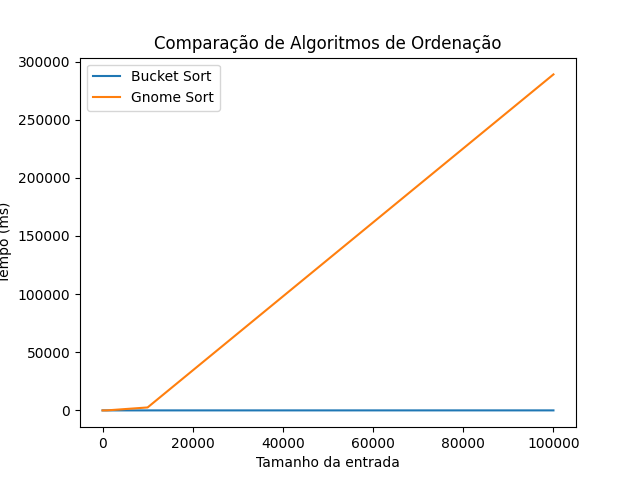
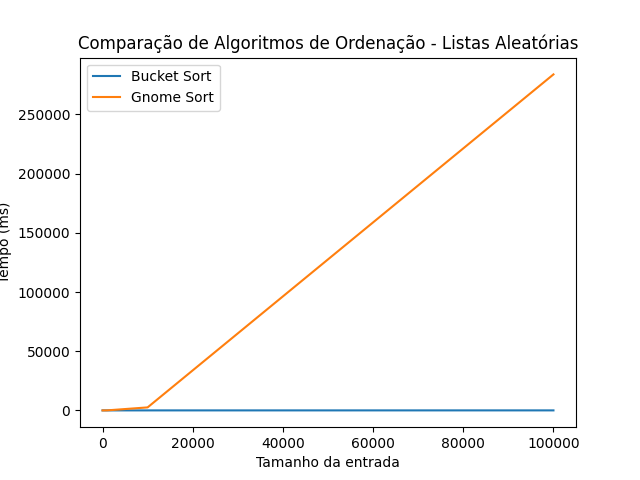
feat: new images for readme

diff --git a/src/main.py b/src/main.py
@@ -125,19 +125,22 @@ def run_comparative_analysis():
     save_multiple_plots(
         sizes,
         all_times_sorted,
-        "results/sorted_comparison.png"
+        "results/sorted_comparison.png",
+        "Comparação de Algoritmos de Ordenação - Listas Ordenadas"
     )
 
     save_multiple_plots(
         sizes,
         all_times_unsorted,
-        "results/unsorted_comparison.png"
+        "results/unsorted_comparison.png",
+        "Comparação de Algoritmos de Ordenação - Listas Desordenadas"
     )
 
     save_multiple_plots(
         sizes,
         all_times_random,
-        "results/random_comparison.png"
+        "results/random_comparison.png",
+        "Comparação de Algoritmos de Ordenação - Listas Aleatórias"
     )
 
     with open("results/sorted_times.json", "w") as f:

diff --git a/src/utils/plots.py b/src/utils/plots.py
@@ -71,7 +71,8 @@ def plot_multiple_sorting_times(
 def save_multiple_plots(
     sizes: list[int],
     all_times: dict[str, list[float]],
-    filename: str
+    filename: str,
+    title: str
 ):
     """
     Salva o gráfico comparativo de tempos de execução para múltiplos
@@ -87,7 +88,7 @@ def save_multiple_plots(
         plt.plot(sizes, times, label=algorithm_name)
     plt.xlabel("Tamanho da entrada")
     plt.ylabel("Tempo (ms)")
-    plt.title("Comparação de Algoritmos de Ordenação")
+    plt.title(title)
     plt.legend()
     plt.savefig(filename)
     plt.close()

diff --git a/README.md b/README.md
@@ -13,7 +13,11 @@ Este trabalho apresenta o estudo dos algoritmos de ordenação Bucket Sort e Gno
 
 O Bucket Sort é um algoritmo de ordenação criado para lidar de forma eficiente com listas de dados que possuem valores distribuídos de maneira relativamente uniforme. Ele foi proposto por Harold H. Seward em 1957, inicialmente para uso em computadores da IBM, e é considerado uma variação dos algoritmos de ordenação por distribuição.
 
-O propósito do Bucket Sort é dividir os elementos em grupos (baldes) de acordo com seus valores, facilitando a ordenação interna de cada grupo e acelerando o processo de ordenação total. Ao invés de comparar cada elemento com todos os outros, como em algoritmos tradicionais, o Bucket Sort aproveita a distribuição dos dados para reduzir o número de comparações necessárias.
+O propósito do Bucket Sort é dividir os elementos em grupos (baldes) de acordo com seus valores, facilitando a ordenação interna de cada grupo e acelerando o processo de ordenação total. Ao invés de comparar cada elemento com todos os outros, como em algoritmos tradicionais, o Bucket Sort aproveita a distribuição dos dados para reduzir o número de comparações necessárias. A Figura 1 apresenta uma visualização desse procedimento
+
+![Estrutura do Bucket Sort](./images/bucket.png)
+
+Figura 1: Visualização do bucket sort | Fonte:[geeksforgeeks.org](geeksforgeeks.org)
 
 Esse método é especialmente útil para grandes volumes de dados que já estão quase ordenados ou distribuídos uniformemente, como dados de sensores, notas de alunos, ou qualquer situação em que os valores estejam espalhados de forma previsível.
 
@@ -395,6 +399,22 @@ Esse teste de mesa mostra como o Gnome Sort percorre, compara e troca elementos 
   - Lembra o Bubble Sort, mas volta após cada troca.
 
 ### Comparação Prática
+
+Após a realização de um experimento prático, onde foram usados vetores de números inteiros de tamanho 10, 100, 1.000, 10.000 e 100.000 números, pode-se observar algumas características de comportamento dos algoritmos. As Figuras 2, 3 e 4 apresentam visualmente esse comportamento.
+
+![Entradas Ordenadas](./results/sorted_comparison.png)
+
+Figura 2: Comparação entre algoritmos, dado entradas ordenadas indo de 10 a 100.000 itens.
+
+![Entradas Desordenadas](./results/unsorted_comparison.png)
+
+Figura 3: Comparação entre algoritmos, dado entradas desordenadas indo de 10 a 100.000 itens.
+
+![Entradas Aleatórias](./results/random_comparison.png)
+
+Figura 4: Comparação entre algoritmos, dado entradas completamente aleatórias indo de 10 a 100.000 itens.
+
+Após observar as figuras, podemos observar alguns pontos, sendo eles:
 
 - Bucket Sort foi mais rápido para listas grandes e distribuídas.
 - Gnome Sort teve desempenho aceitável apenas para listas pequenas ou no caso da lista já estar ordenada.
